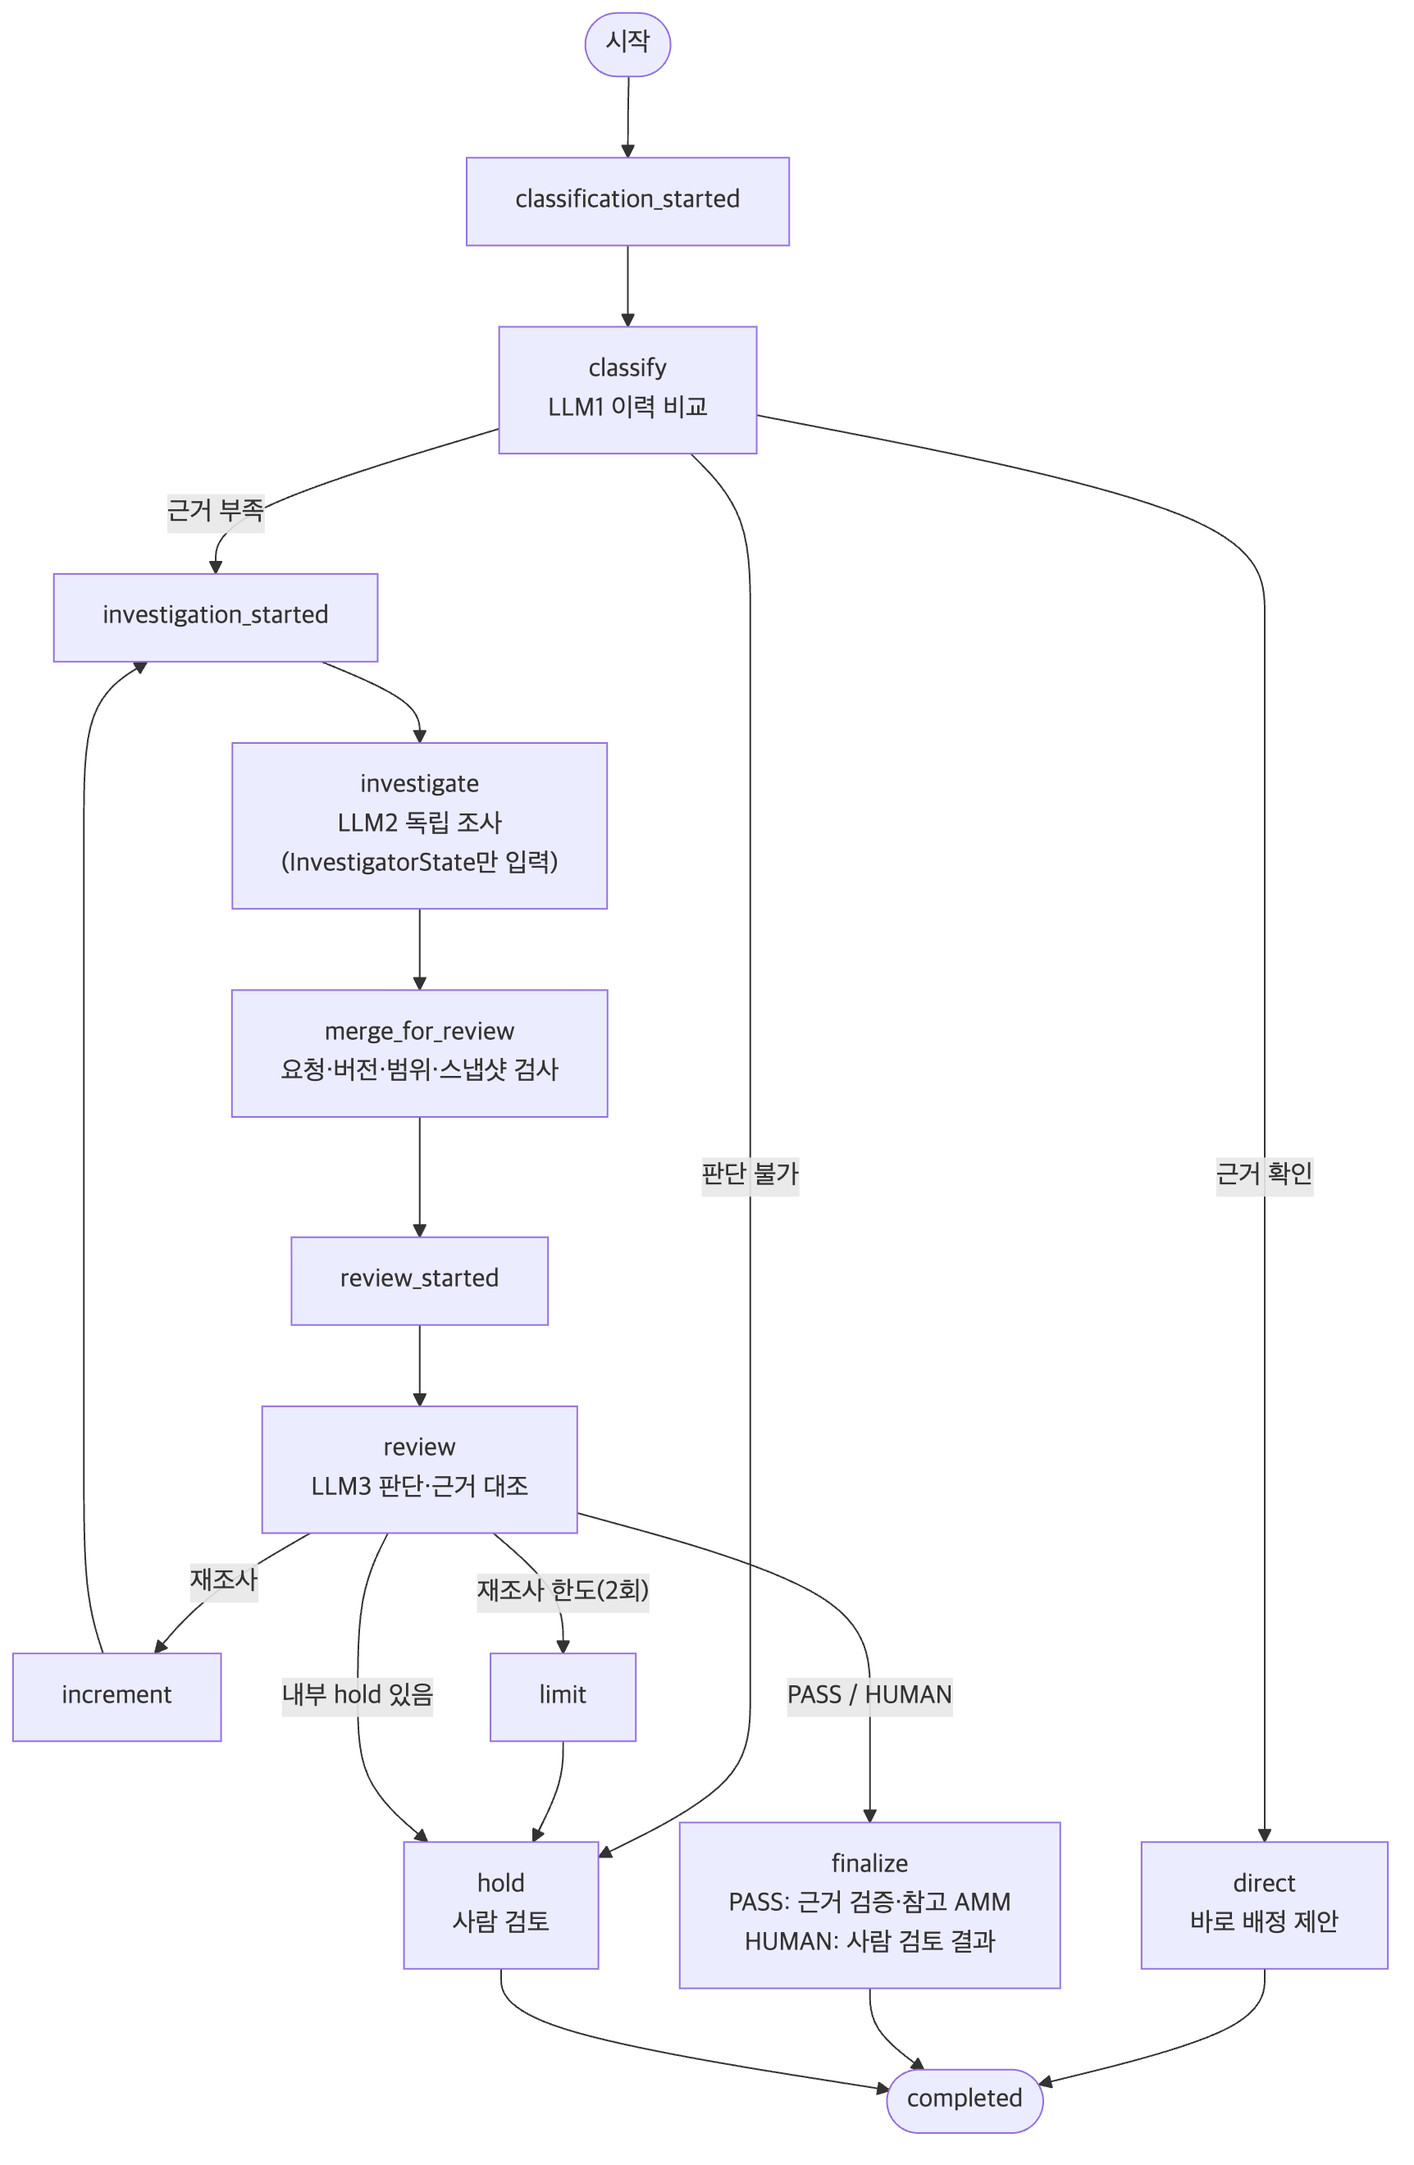
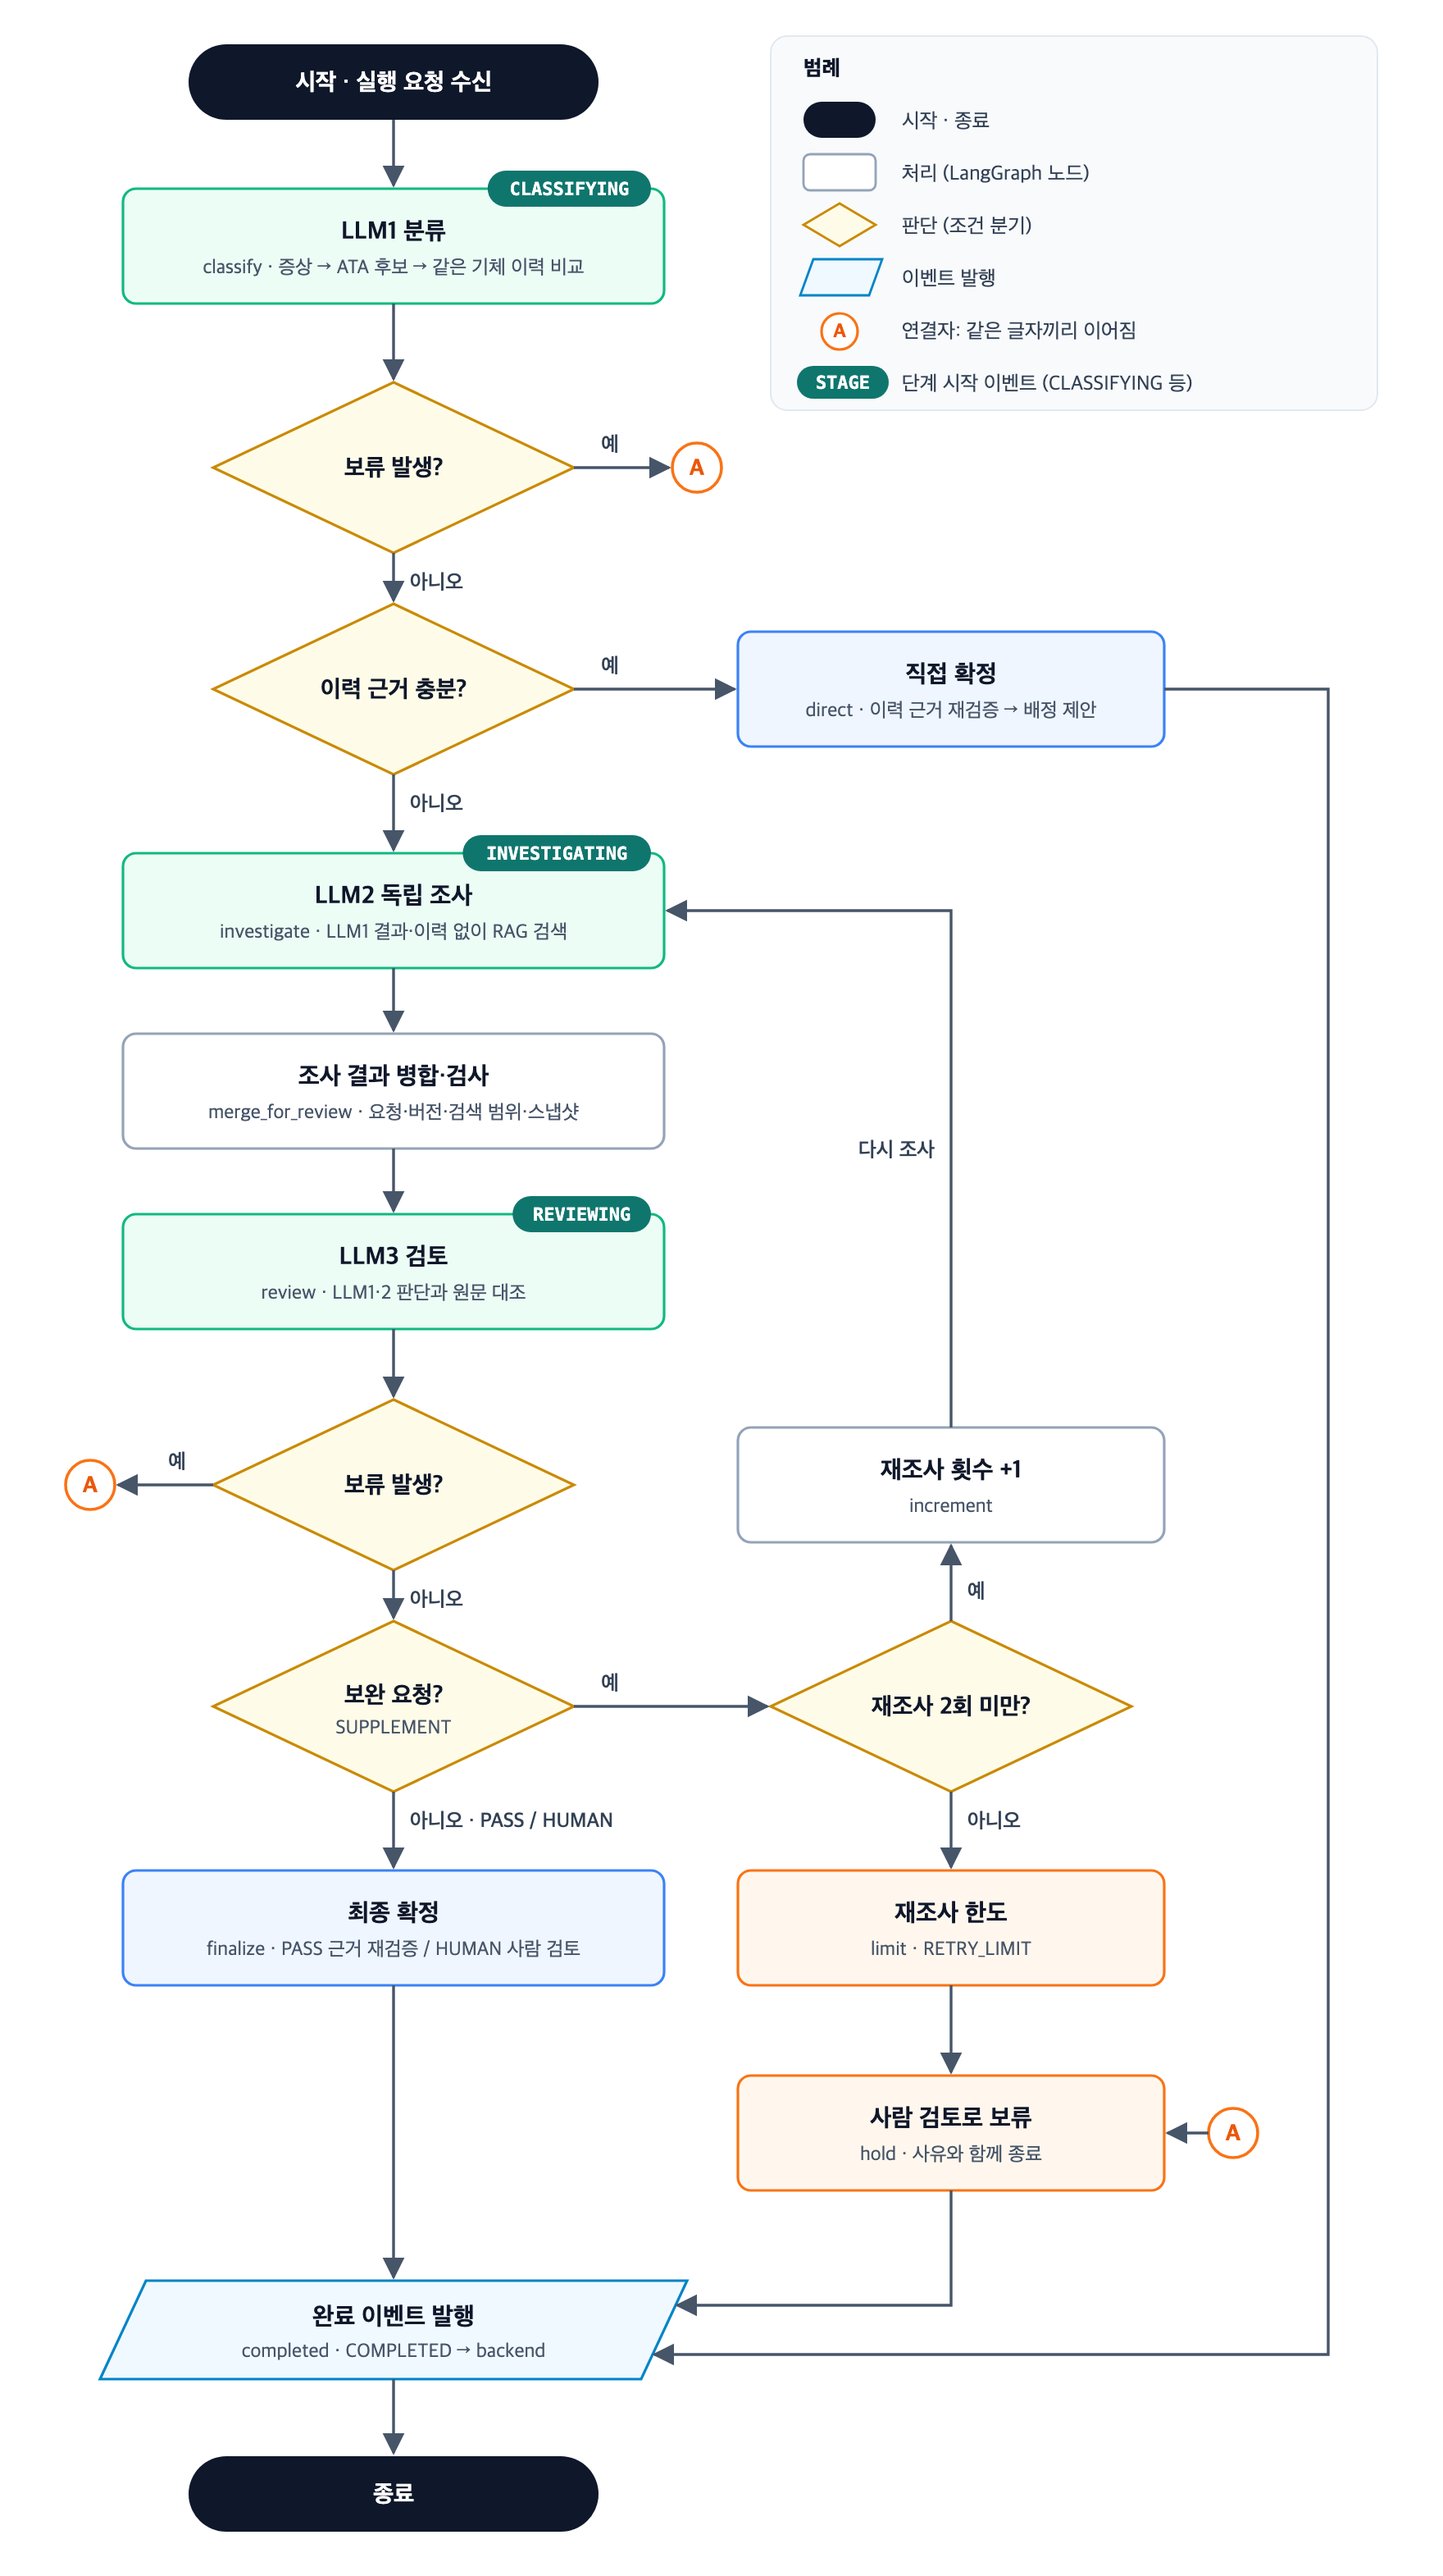
docs: redraw the LangGraph flow as a standard flowchart

diff --git a/design/README.md b/design/README.md
@@ -95,7 +95,7 @@
 
 AI 서버는 LangGraph로 판단 단계를 그래프로 연결합니다. 단계마다 상태(State)를 체크포인트에 저장해, 서버가 재시작돼도 멈춘 단계부터 이어 갑니다.
 
-<p align="center"><img src="langgraph-flow.png" width="640" alt="LangGraph 노드 흐름: classify, investigate, review, finalize"></p>
+<p align="center"><img src="langgraph-flow.png" width="600" alt="LangGraph AI 판단 순서도: classify, investigate, review, finalize, hold"></p>
 
 | 노드 | 하는 일 |
 |:--|:--|
